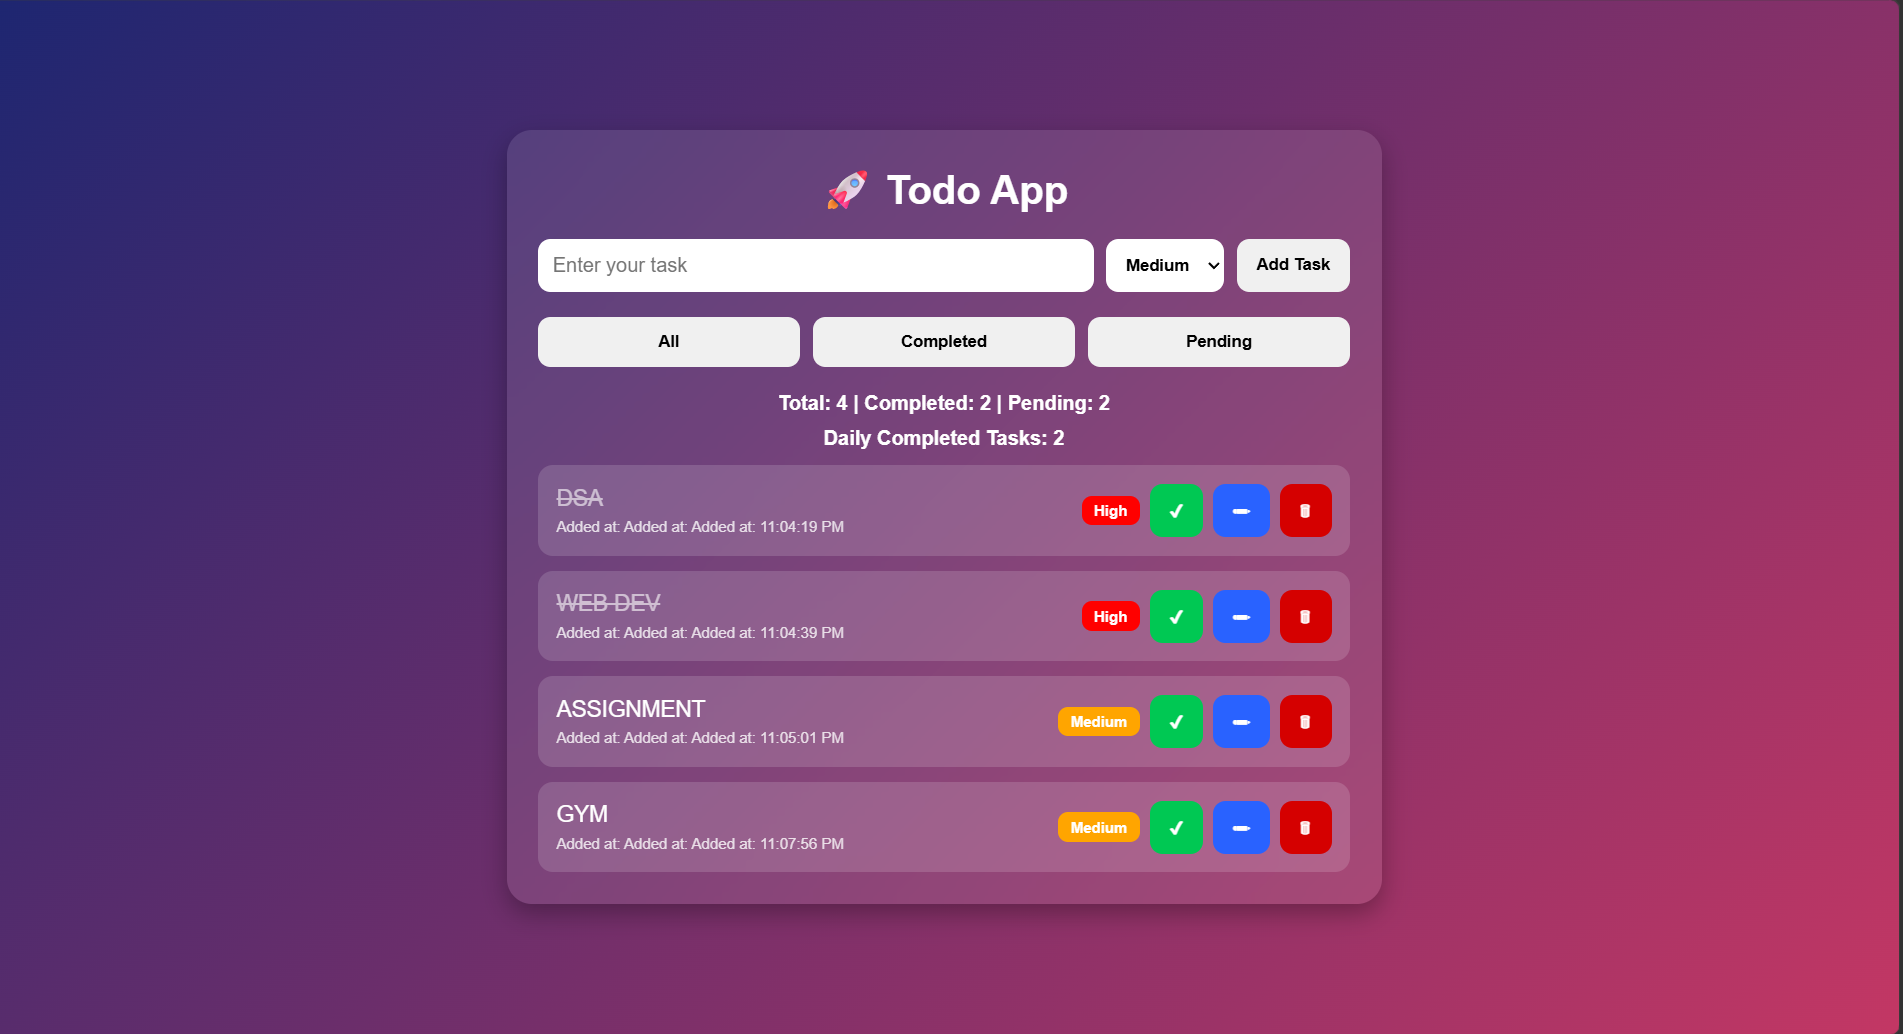
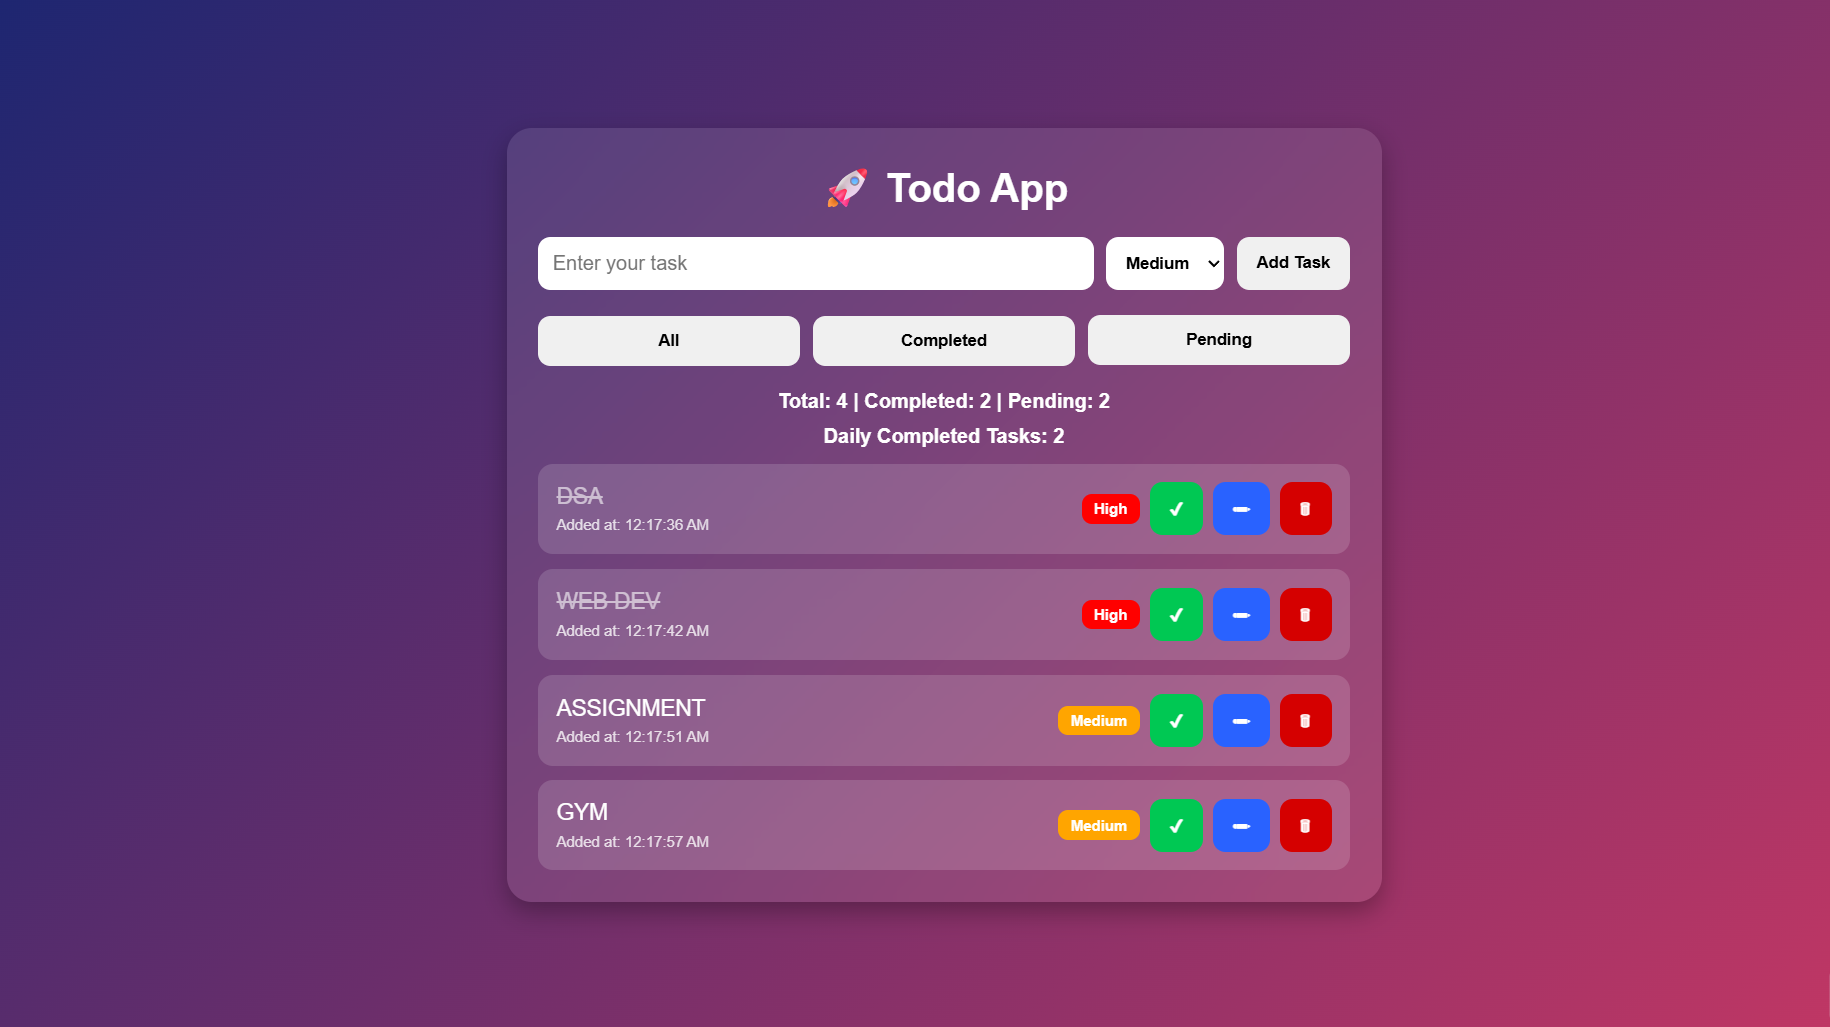
Updated screenshot and fixed time duplication bug

Changed region(s): [[0.2492, 0.1558, 0.7475, 0.9036], [0.9967, 0.0, 1.0, 1.0], [0.3426, 0.3116, 0.3738, 0.3427]]

diff --git a/app.js b/app.js
@@ -1,7 +1,5 @@
 let btn = document.querySelector("button");
-
 let ul = document.querySelector("ul");
-
 let inp = document.querySelector("input");
 
 let taskCounter =
@@ -32,16 +30,23 @@ function createTask(
     completedDate = null
 ) {
 
-    let item = document.createElement("li");
+    let item =
+        document.createElement("li");
+
+
 
     if (completed) {
         item.classList.add("done");
     }
 
+
+
     item.setAttribute(
         "data-priority",
         priority
     );
+
+
 
     if (completedDate) {
 
@@ -51,8 +56,13 @@ function createTask(
         );
     }
 
+
+
     let currentTime =
-        time || new Date().toLocaleTimeString();
+        time ||
+        `Added at: ${new Date().toLocaleTimeString()}`;
+
+
 
     item.innerHTML = `
 
@@ -63,7 +73,7 @@ function createTask(
             </span>
 
             <small class="time">
-                Added at: ${currentTime}
+                ${currentTime}
             </small>
 
         </div>
@@ -89,6 +99,8 @@ function createTask(
         </div>
     `;
 
+
+
     ul.appendChild(item);
 
     updateCounter();
@@ -98,30 +110,47 @@ function createTask(
 
 
 
+
+
 // ADD TASK
-btn.addEventListener("click", function () {
+btn.addEventListener(
+    "click",
+    function () {
 
-    let task =
-        inp.value.trim();
+        let task =
+            inp.value.trim();
 
-    if (task === "") {
 
-        alert("Please enter a task");
 
-        return;
+        if (task === "") {
+
+            alert(
+                "Please enter a task"
+            );
+
+            return;
+        }
+
+
+
+        let priority =
+            prioritySelect.value;
+
+
+
+        createTask(
+            task,
+            false,
+            priority
+        );
+
+
+
+        inp.value = "";
     }
+);
 
-    let priority =
-        prioritySelect.value;
 
-    createTask(
-        task,
-        false,
-        priority
-    );
-
-    inp.value = "";
-});
 
 
 
@@ -139,12 +168,15 @@ inp.addEventListener(
 
 
 
+
+
 // EVENT DELEGATION
 ul.addEventListener(
     "click",
     function(event){
 
-        let target = event.target;
+        let target =
+            event.target;
 
         let listItem =
             target.closest("li");
@@ -168,18 +200,22 @@ ul.addEventListener(
 
             listItem.classList.toggle("done");
 
+
+
             if (
                 listItem.classList.contains("done")
             ) {
 
                 let today =
-                    new Date().toLocaleDateString();
+                    new Date()
+                    .toLocaleDateString();
 
                 listItem.setAttribute(
                     "data-completed-date",
                     today
                 );
             }
+
             else {
 
                 listItem.removeAttribute(
@@ -196,13 +232,17 @@ ul.addEventListener(
         ) {
 
             let textSpan =
-                listItem.querySelector(".task-text");
+                listItem.querySelector(
+                    ".task-text"
+                );
 
             let updatedTask =
                 prompt(
                     "Edit your task",
                     textSpan.innerText
                 );
+
+
 
             if (
                 updatedTask !== null &&
@@ -214,6 +254,8 @@ ul.addEventListener(
             }
         }
 
+
+
         updateCounter();
 
         saveTasks();
@@ -222,17 +264,23 @@ ul.addEventListener(
 
 
 
+
+
 // UPDATE COUNTER
 function updateCounter() {
 
     let totalTasks =
-        document.querySelectorAll("li").length;
+        document.querySelectorAll("li")
+        .length;
 
     let completedTasks =
-        document.querySelectorAll(".done").length;
+        document.querySelectorAll(".done")
+        .length;
 
     let pendingTasks =
         totalTasks - completedTasks;
+
+
 
     taskCounter.innerText =
 
@@ -241,11 +289,13 @@ function updateCounter() {
 
 
     // DAILY COMPLETED TASKS
-
     let today =
-        new Date().toLocaleDateString();
+        new Date()
+        .toLocaleDateString();
 
     let dailyCompleted = 0;
+
+
 
     document.querySelectorAll("li")
     .forEach((task) => {
@@ -260,10 +310,14 @@ function updateCounter() {
         }
     });
 
+
+
     dailyCounter.innerText =
 
         `Daily Completed Tasks: ${dailyCompleted}`;
 }
+
+
 
 
 
@@ -272,24 +326,40 @@ function saveTasks() {
 
     let tasks = [];
 
+
+
     document.querySelectorAll("li")
     .forEach((li) => {
 
         tasks.push({
 
             text:
-                li.querySelector(".task-text")
-                .innerText,
+                li.querySelector(
+                    ".task-text"
+                ).innerText,
+
+
 
             completed:
-                li.classList.contains("done"),
+                li.classList.contains(
+                    "done"
+                ),
+
+
 
             priority:
-                li.getAttribute("data-priority"),
+                li.getAttribute(
+                    "data-priority"
+                ),
+
+
 
             time:
-                li.querySelector(".time")
-                .innerText,
+                li.querySelector(
+                    ".time"
+                ).innerText,
+
+
 
             completedDate:
                 li.getAttribute(
@@ -298,11 +368,15 @@ function saveTasks() {
         });
     });
 
+
+
     localStorage.setItem(
         "tasks",
         JSON.stringify(tasks)
     );
 }
+
+
 
 
 
@@ -313,6 +387,8 @@ function loadTasks() {
         JSON.parse(
             localStorage.getItem("tasks")
         ) || [];
+
+
 
     tasks.forEach((task) => {
 
@@ -325,8 +401,12 @@ function loadTasks() {
         );
     });
 
+
+
     updateCounter();
 }
+
+
 
 
 
@@ -342,6 +422,8 @@ filterButtons.forEach((button) => {
                     "data-filter"
                 );
 
+
+
             document.querySelectorAll("li")
             .forEach((task) => {
 
@@ -354,21 +436,29 @@ filterButtons.forEach((button) => {
 
                         break;
 
+
+
                     case "completed":
 
                         task.style.display =
 
-                            task.classList.contains("done")
+                            task.classList.contains(
+                                "done"
+                            )
                             ? "flex"
                             : "none";
 
                         break;
 
+
+
                     case "pending":
 
                         task.style.display =
 
-                            !task.classList.contains("done")
+                            !task.classList.contains(
+                                "done"
+                            )
                             ? "flex"
                             : "none";
 

diff --git a/README.md b/README.md
@@ -22,7 +22,7 @@ This project helps users manage daily tasks efficiently with features like task 
 
 * HTML5
 * CSS3
-* JavaScript (ES6)
+* JavaScript 
 
 ---
 
@@ -34,7 +34,7 @@ https://aman-singh-chauhan.github.io/taskflow-todo-app/
 
 ## 📸 Screenshot
 
-![TaskFlow Todo App](screenshots/homepage.png)
+![TODO APP](screenshots/homepage.png)
 
 ---
 
